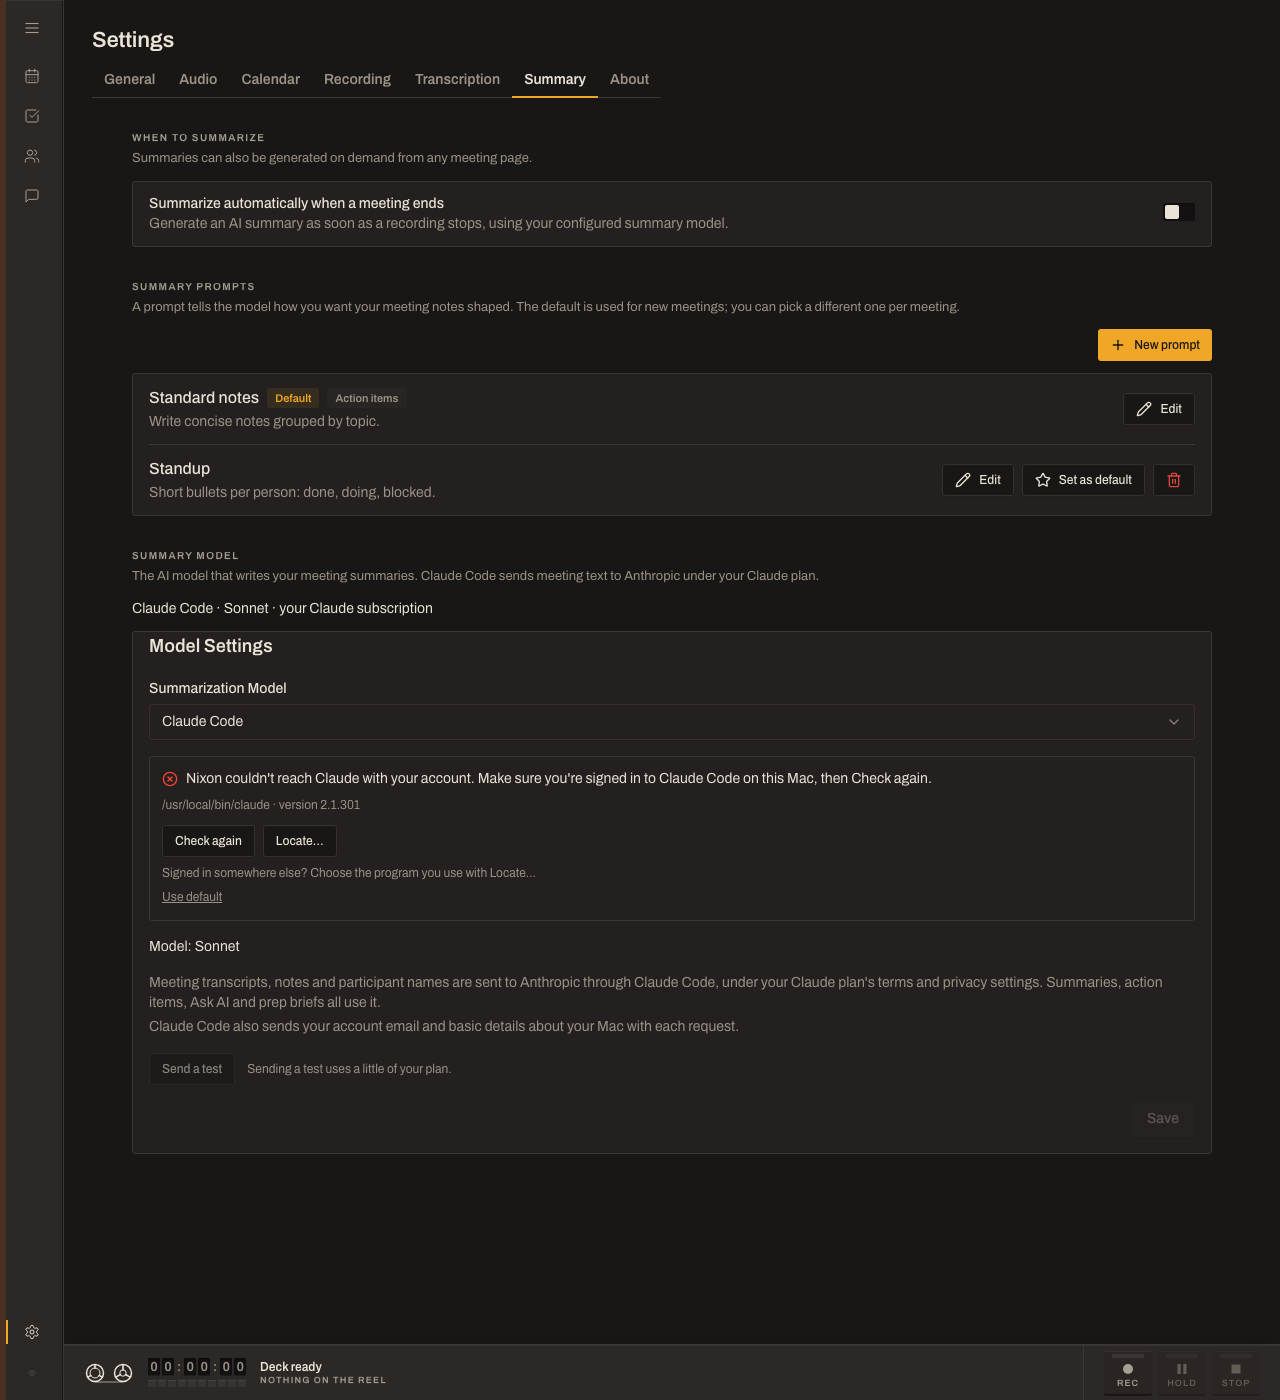
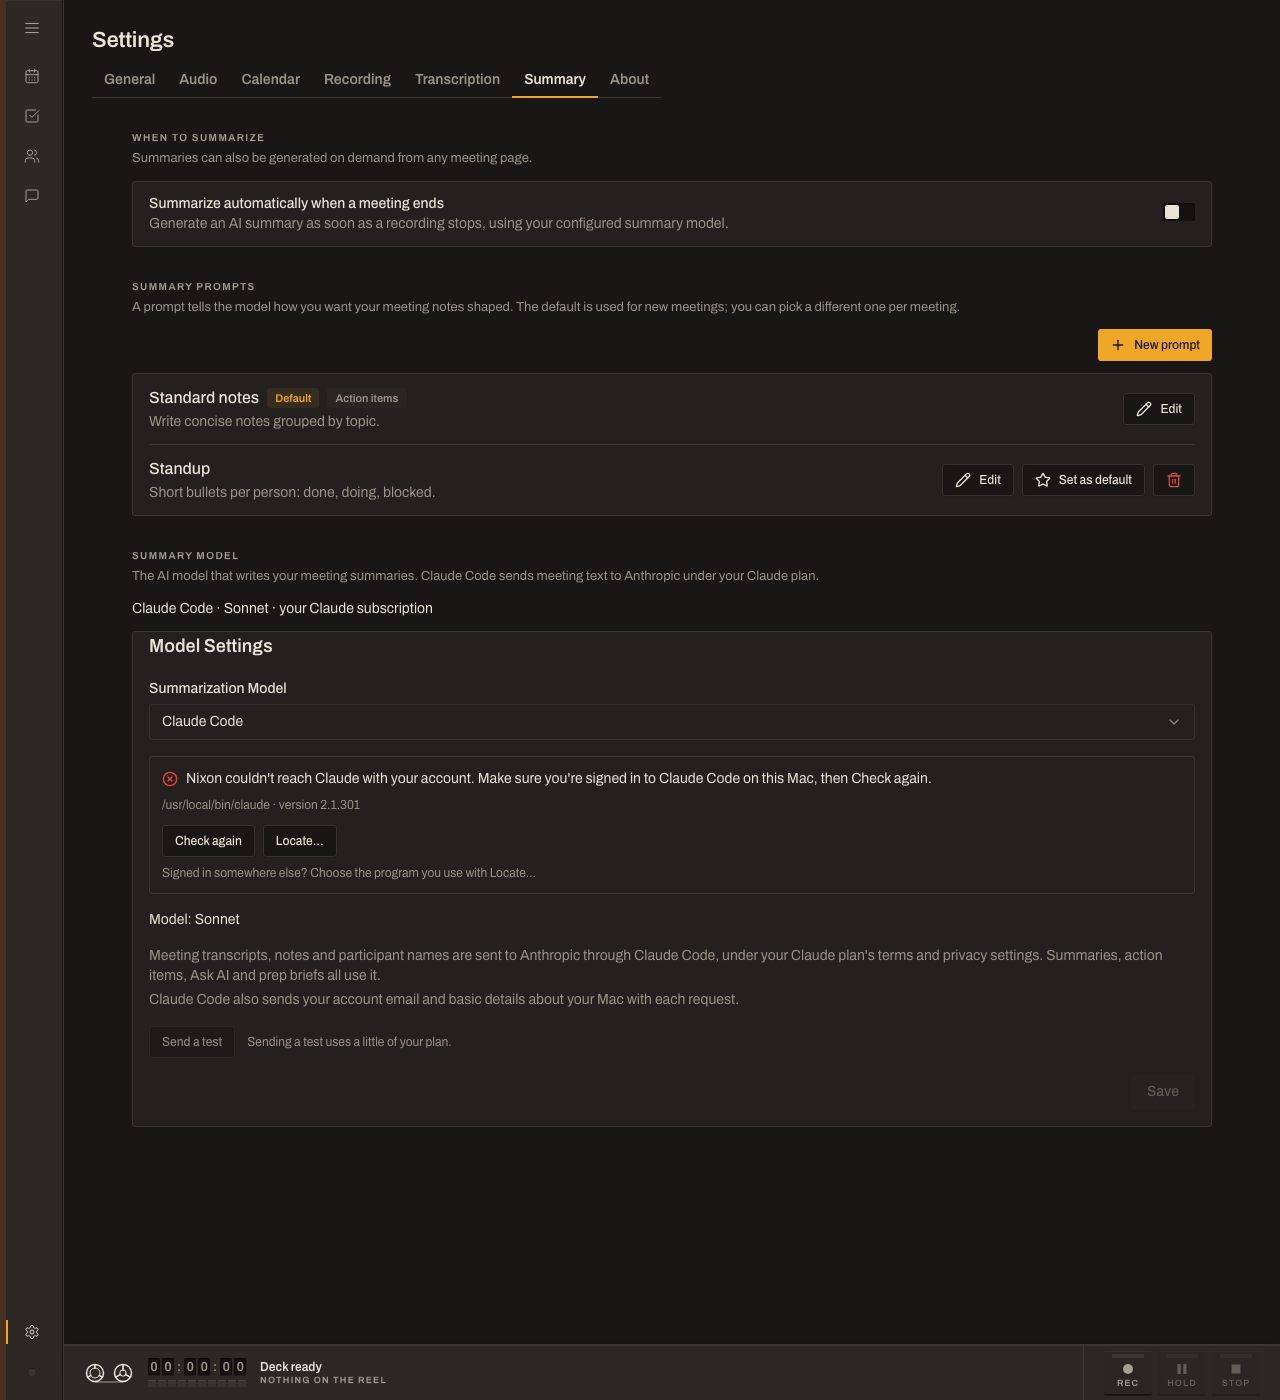
Claude Code panel: name the selection, lock Locate while picking, Use default only when saved (specs/0085)

Changed region(s): [[0.0938, 0.6143, 0.9062, 0.7679]]

diff --git a/frontend/src/components/CliProviderPanel.tsx b/frontend/src/components/CliProviderPanel.tsx
@@ -37,6 +37,8 @@ export interface CliProviderStatus {
   minVersion: string;
   authNote?: string;
   probeError?: string;
+  /** Set only when a Locate… path is saved. */
+  overridePath?: string;
   models: { id: string; label: string }[];
 }
 
@@ -74,8 +76,11 @@ function writeConfirmed(id: string) {
 
 const errText = (e: unknown) => (typeof e === 'string' ? e : e instanceof Error ? e.message : 'Something went wrong.');
 
-/** Fetch the CLI providers' status; `refresh` re-probes. */
-function useCliStatuses(enabled = true) {
+/**
+ * Fetch the CLI providers' status; `refresh` re-probes. `selected` is the CLI whose panel is
+ * showing: it lets the Rust side try the login shell for that CLI. The dropdown passes none.
+ */
+function useCliStatuses(selected?: CliProviderId) {
   const [statuses, setStatuses] = useState<CliProviderStatus[] | null>(null);
   const [error, setError] = useState<string | null>(null);
   const [checking, setChecking] = useState(false);
@@ -83,18 +88,22 @@ function useCliStatuses(enabled = true) {
   const refresh = useCallback(async () => {
     setChecking(true);
     try {
-      setStatuses(await invoke<CliProviderStatus[]>('api_cli_providers_status'));
+      setStatuses(
+        await (selected
+          ? invoke<CliProviderStatus[]>('api_cli_providers_status', { selected })
+          : invoke<CliProviderStatus[]>('api_cli_providers_status')),
+      );
       setError(null);
     } catch (e) {
       setError(errText(e));
     } finally {
       setChecking(false);
     }
-  }, []);
+  }, [selected]);
 
   useEffect(() => {
-    if (enabled) void refresh();
-  }, [enabled, refresh]);
+    void refresh();
+  }, [refresh]);
 
   return { statuses, setStatuses, error, checking, refresh };
 }
@@ -181,11 +190,12 @@ function StatusLine({ status }: { status: CliProviderStatus }) {
 }
 
 function ClaudeCodePanel({ onSave }: { onSave: () => void }) {
-  const { statuses, setStatuses, error, checking, refresh } = useCliStatuses();
+  const { statuses, setStatuses, error, checking, refresh } = useCliStatuses('claude-code');
   const status = statuses?.find((s) => s.id === 'claude-code') ?? null;
 
   const [pathError, setPathError] = useState<string | null>(null);
   const [applyingPath, setApplyingPath] = useState(false);
+  const [picking, setPicking] = useState(false);
   const [testing, setTesting] = useState(false);
   const [testResult, setTestResult] = useState<CliTestResult | null>(null);
   const [testError, setTestError] = useState<string | null>(null);
@@ -209,13 +219,18 @@ function ClaudeCodePanel({ onSave }: { onSave: () => void }) {
 
   // Locate…: the native file chooser picks, set_path validates and saves. A cancel is not an error.
   const locate = async () => {
+    if (picking) return;
     setPathError(null);
+    setPicking(true);
+    let picked: string | null = null;
     try {
-      const picked = await invoke<string | null>('api_cli_provider_pick_binary');
-      if (picked) await applyPath(picked);
+      picked = await invoke<string | null>('api_cli_provider_pick_binary');
     } catch (e) {
       setPathError(errText(e));
+    } finally {
+      setPicking(false);
     }
+    if (picked) await applyPath(picked);
   };
 
   const sendTest = async () => {
@@ -271,7 +286,7 @@ function ClaudeCodePanel({ onSave }: { onSave: () => void }) {
             {checking ? 'Checking…' : 'Check again'}
           </Button>
           <Button type="button" variant="outline" size="sm" onClick={() => void locate()}
-            disabled={applyingPath}>
+            disabled={applyingPath || picking}>
             Locate…
           </Button>
           {showInstall && (
@@ -288,7 +303,7 @@ function ClaudeCodePanel({ onSave }: { onSave: () => void }) {
         <p className="text-xs text-muted-foreground">
           Signed in somewhere else? Choose the program you use with Locate…
         </p>
-        {status?.path && (
+        {status?.overridePath && (
           <button
             type="button"
             className="text-xs text-muted-foreground underline"

diff --git a/frontend/src/components/__tests__/CliProviderPanel.test.tsx b/frontend/src/components/__tests__/CliProviderPanel.test.tsx
@@ -8,7 +8,8 @@ import { render, screen, waitFor, fireEvent } from '@testing-library/react';
 const { invokeMock } = vi.hoisted(() => ({ invokeMock: vi.fn() }));
 vi.mock('@tauri-apps/api/core', () => ({ invoke: invokeMock }));
 
-import { CliProviderPanel } from '@/components/CliProviderPanel';
+import { CliProviderPanel, CliProviderSelectItems } from '@/components/CliProviderPanel';
+import { Select, SelectContent, SelectTrigger, SelectValue } from '@/components/ui/select';
 
 const BASE = {
   id: 'claude-code',
@@ -151,13 +152,58 @@ describe('CliProviderPanel (specs/0085)', () => {
   });
 
   it('Use default clears a saved location', async () => {
-    arrange(READY, { api_cli_provider_set_path: READY });
+    arrange({ ...READY, overridePath: '/usr/local/bin/claude' }, { api_cli_provider_set_path: READY });
     render(<CliProviderPanel provider="claude-code" onSave={vi.fn()} />);
 
     fireEvent.click(await screen.findByRole('button', { name: /Use default/ }));
 
     await waitFor(() => expect(calls('api_cli_provider_set_path')).toHaveLength(1));
     expect(calls('api_cli_provider_set_path')[0][1]).toEqual({ id: 'claude-code', path: null });
+  });
+
+  it('hides Use default when no location is saved, even with a found path', async () => {
+    arrange(READY);
+    render(<CliProviderPanel provider="claude-code" onSave={vi.fn()} />);
+    await screen.findByText(/\/usr\/local\/bin\/claude/);
+    expect(screen.queryByRole('button', { name: /Use default/ })).toBeNull();
+  });
+
+  it('disables Locate while the file picker is open', async () => {
+    let finishPick: (v: string | null) => void = () => {};
+    arrange({ ...BASE, state: 'notFound' }, {
+      api_cli_provider_pick_binary: () => new Promise((resolve) => { finishPick = resolve; }),
+    });
+    render(<CliProviderPanel provider="claude-code" onSave={vi.fn()} />);
+
+    const locate = await screen.findByRole('button', { name: /Locate/ });
+    fireEvent.click(locate);
+    await waitFor(() => expect(locate).toBeDisabled());
+    fireEvent.click(locate);
+    expect(calls('api_cli_provider_pick_binary')).toHaveLength(1);
+
+    finishPick(null);
+    await waitFor(() => expect(locate).toBeEnabled());
+  });
+
+  it('names Claude Code as selected when the panel asks for status', async () => {
+    arrange(READY);
+    render(<CliProviderPanel provider="claude-code" onSave={vi.fn()} />);
+    await screen.findByText(/\/usr\/local\/bin\/claude/);
+    expect(calls('api_cli_providers_status')[0][1]).toEqual({ selected: 'claude-code' });
+  });
+
+  it('the chooser dropdown asks for status without naming a selection', async () => {
+    arrange(READY);
+    render(
+      <Select open value="ollama">
+        <SelectTrigger><SelectValue /></SelectTrigger>
+        <SelectContent>
+          <CliProviderSelectItems />
+        </SelectContent>
+      </Select>,
+    );
+    await waitFor(() => expect(calls('api_cli_providers_status')).toHaveLength(1));
+    expect(calls('api_cli_providers_status')[0][1]).toBeUndefined();
   });
 
   it('Send a test reports the result and says it uses a little of the plan', async () => {
